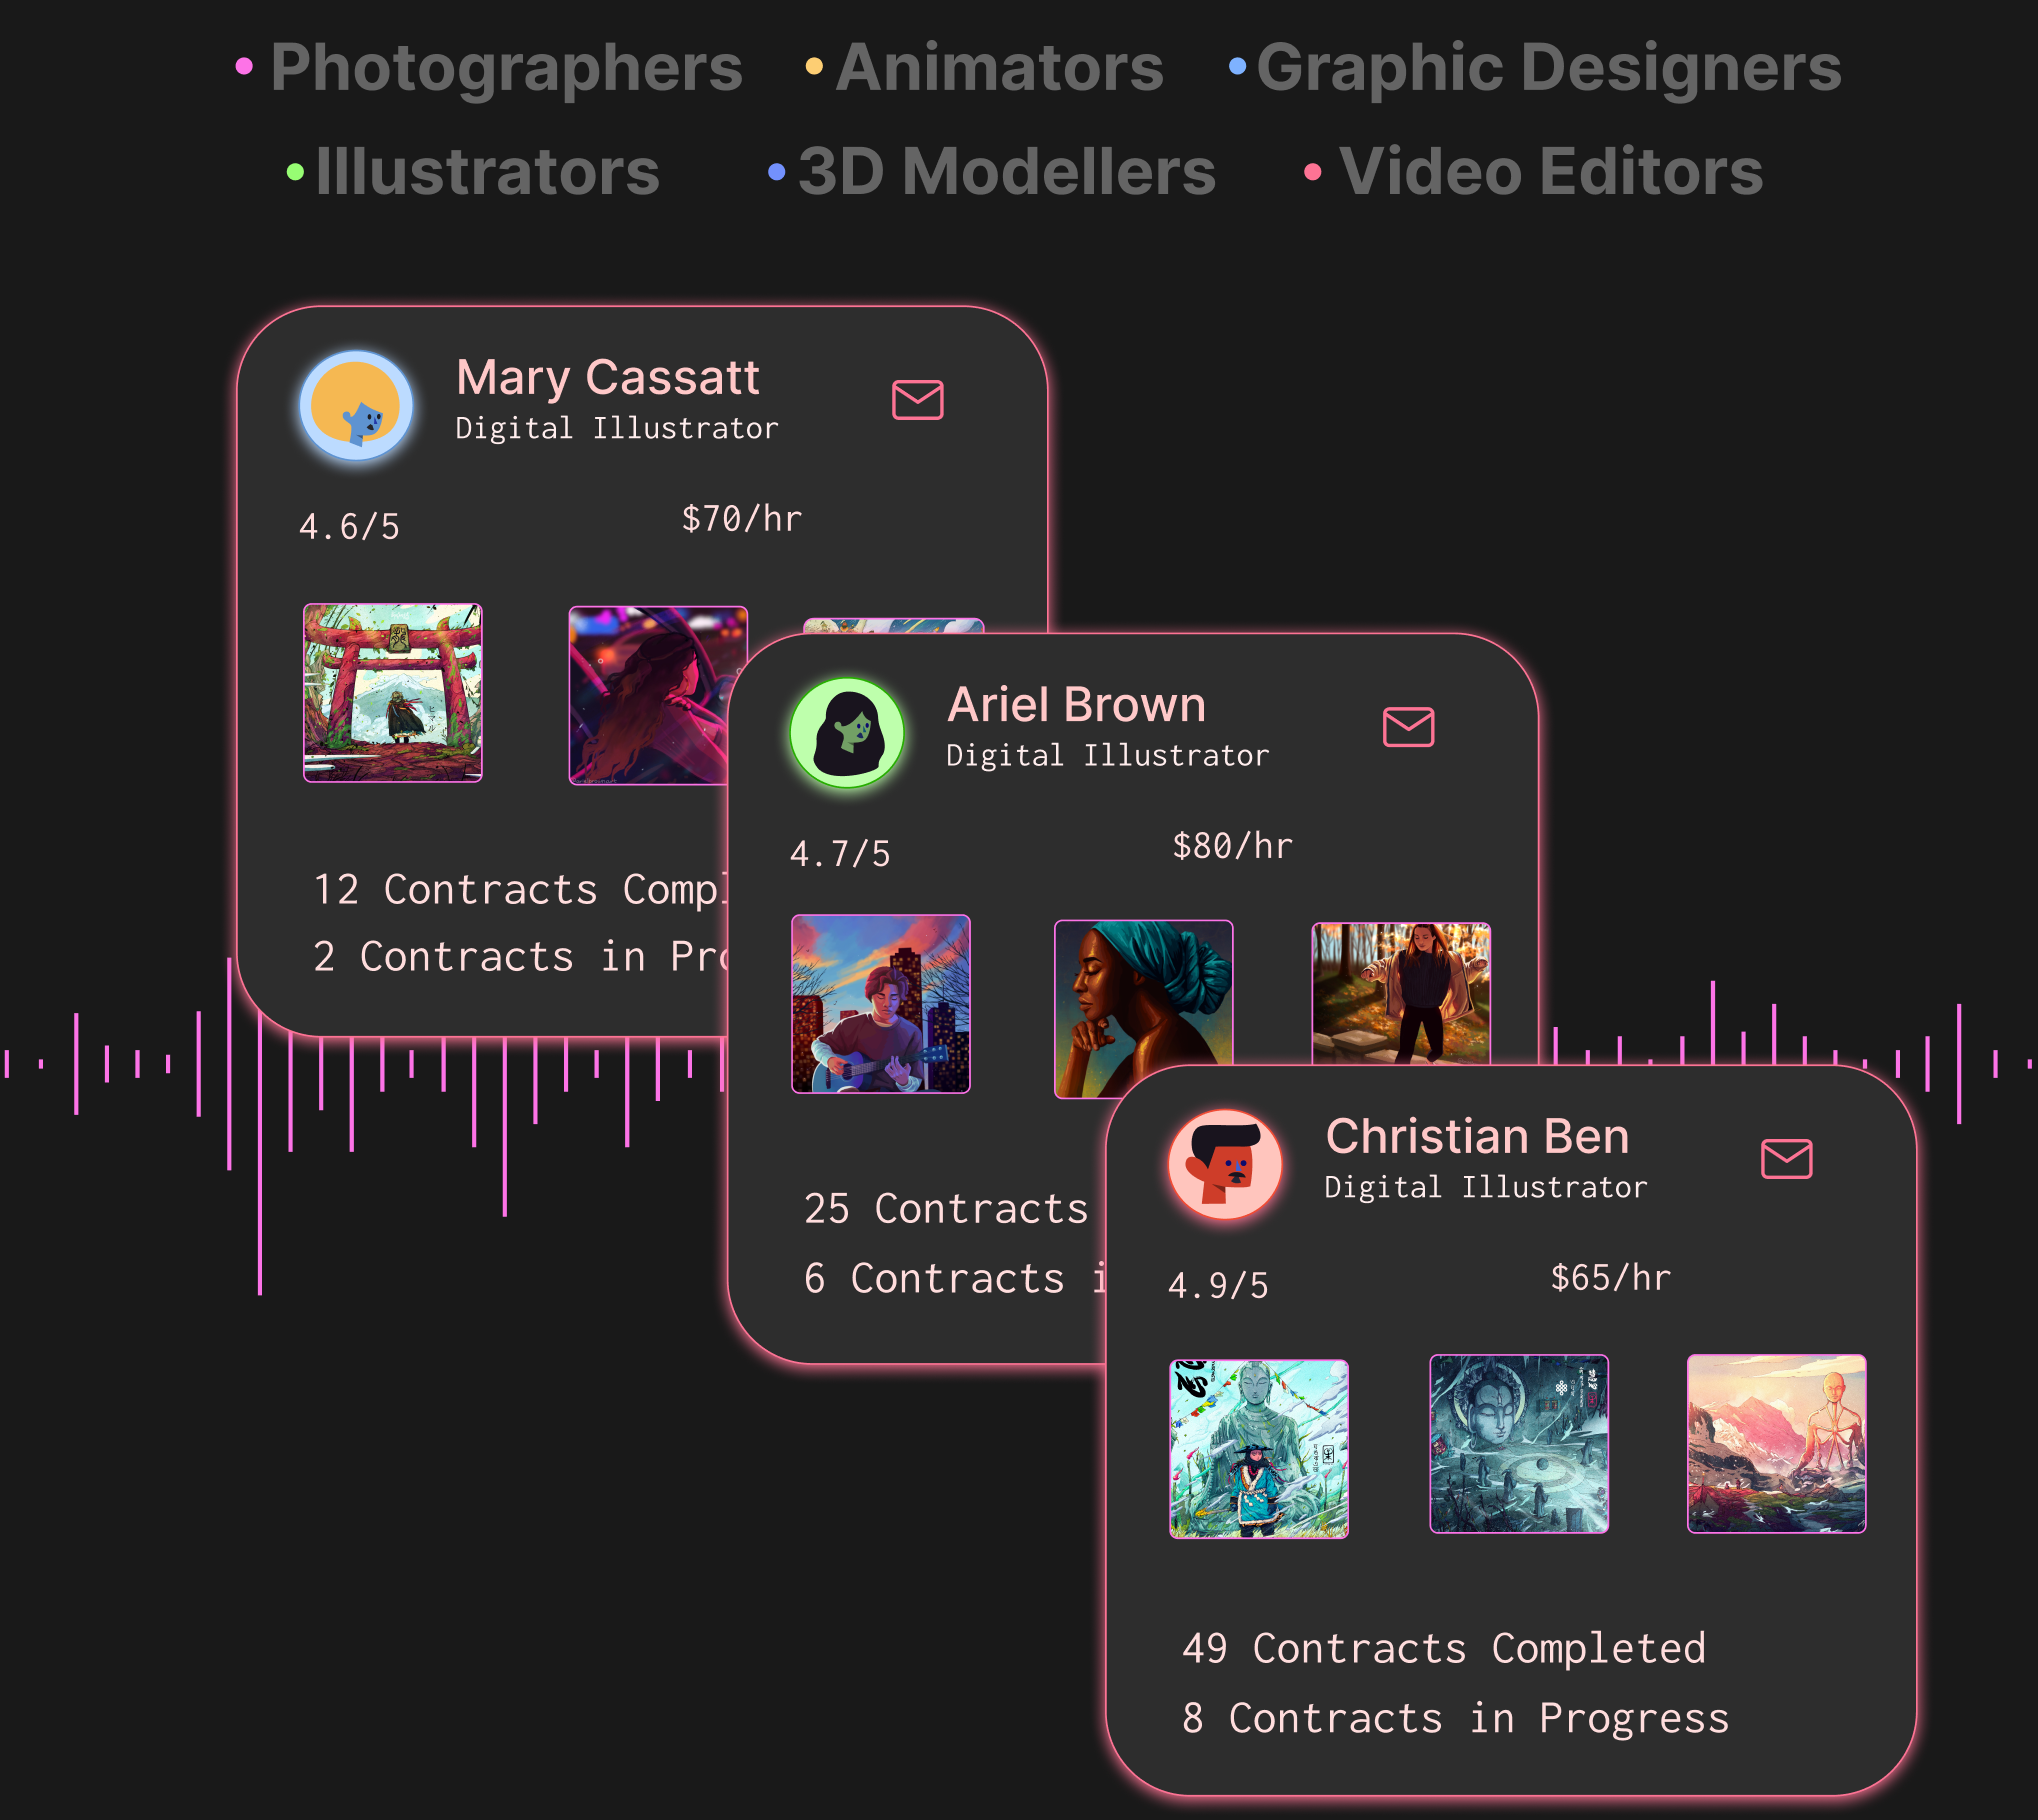
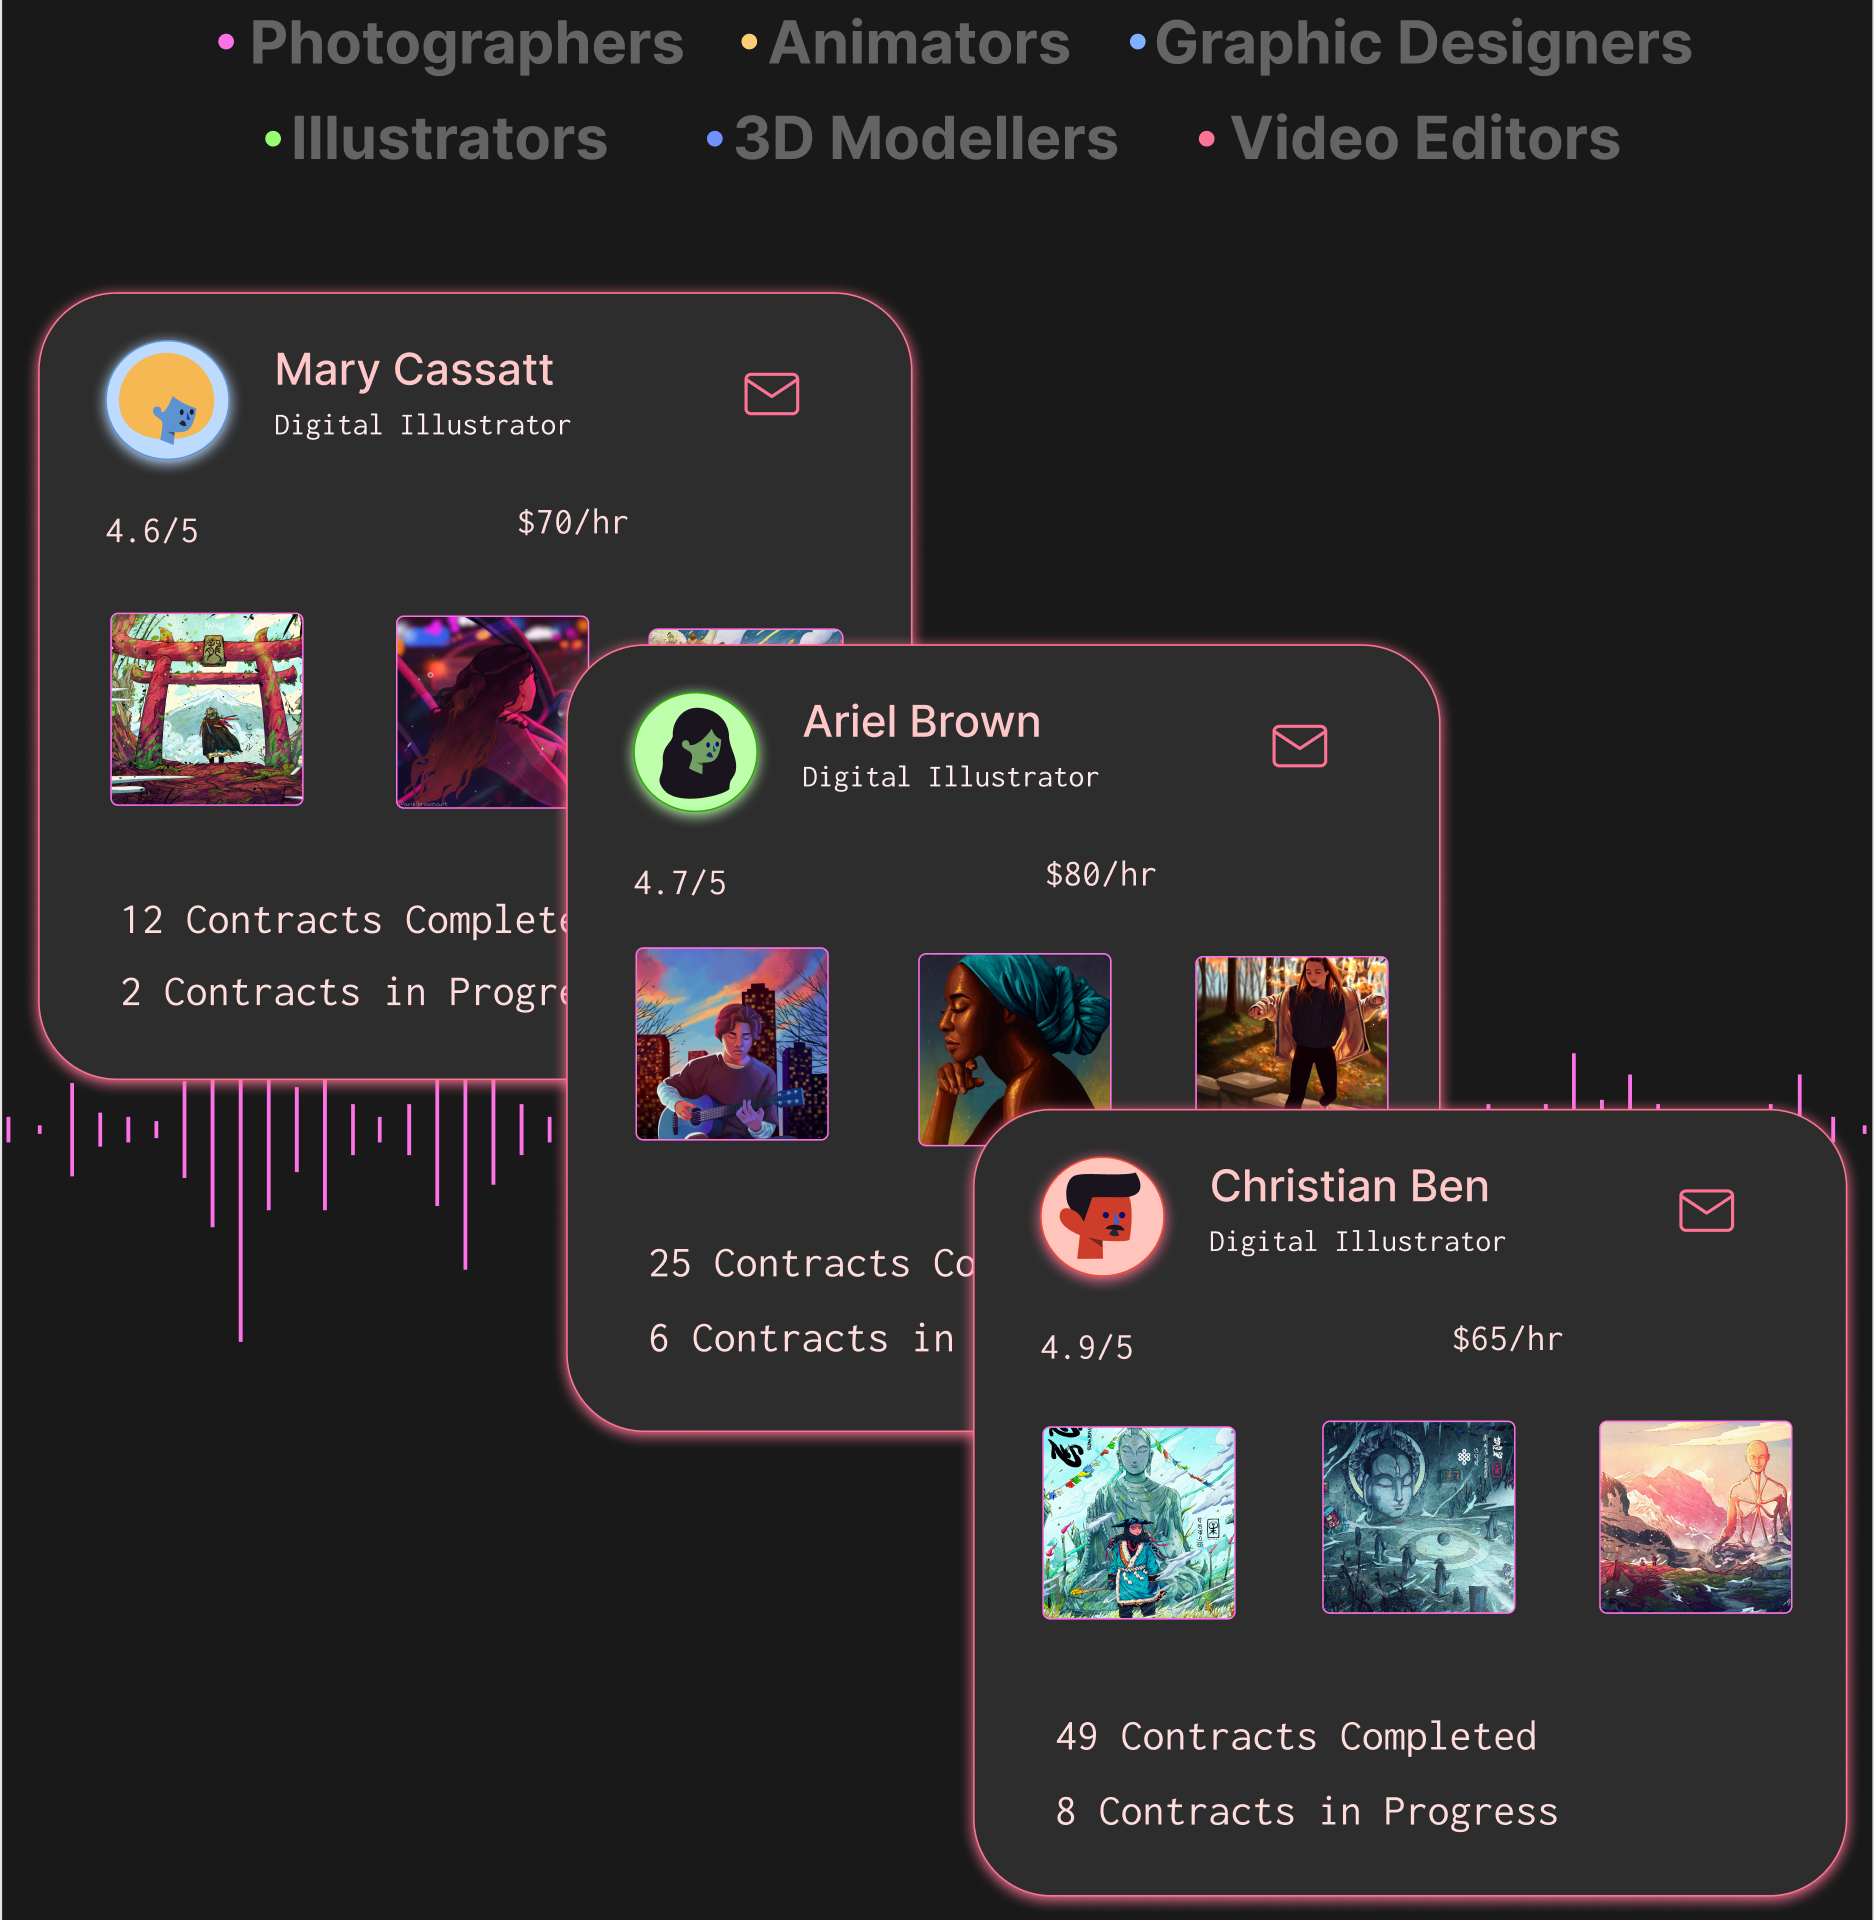
chnGE CHANGE

diff --git a/style.css b/style.css
@@ -354,7 +354,7 @@ width: 40%;
 
 
 .mainimg{
-width: 90%;
+width: 100%;
 }
 .slides{
 	width: 100%;
@@ -364,20 +364,20 @@ width: 90%;
 .whatever{
 	display: inline;
 	width: 80%;
-	margin-left: 7%;
+	margin-left: 10%;
 	
 
 }
 .wherever{
 	display: inline;
 	width: 80%;
-	margin-left: 7%;
+	margin-left: 10%;
 	margin-top: 5%;
 }
 .budget{
 	display: inline;
 	width: 80%;
-	margin-left: 7%;
+	margin-left: 10%;
 	margin-top: 5%;
 	
 }
